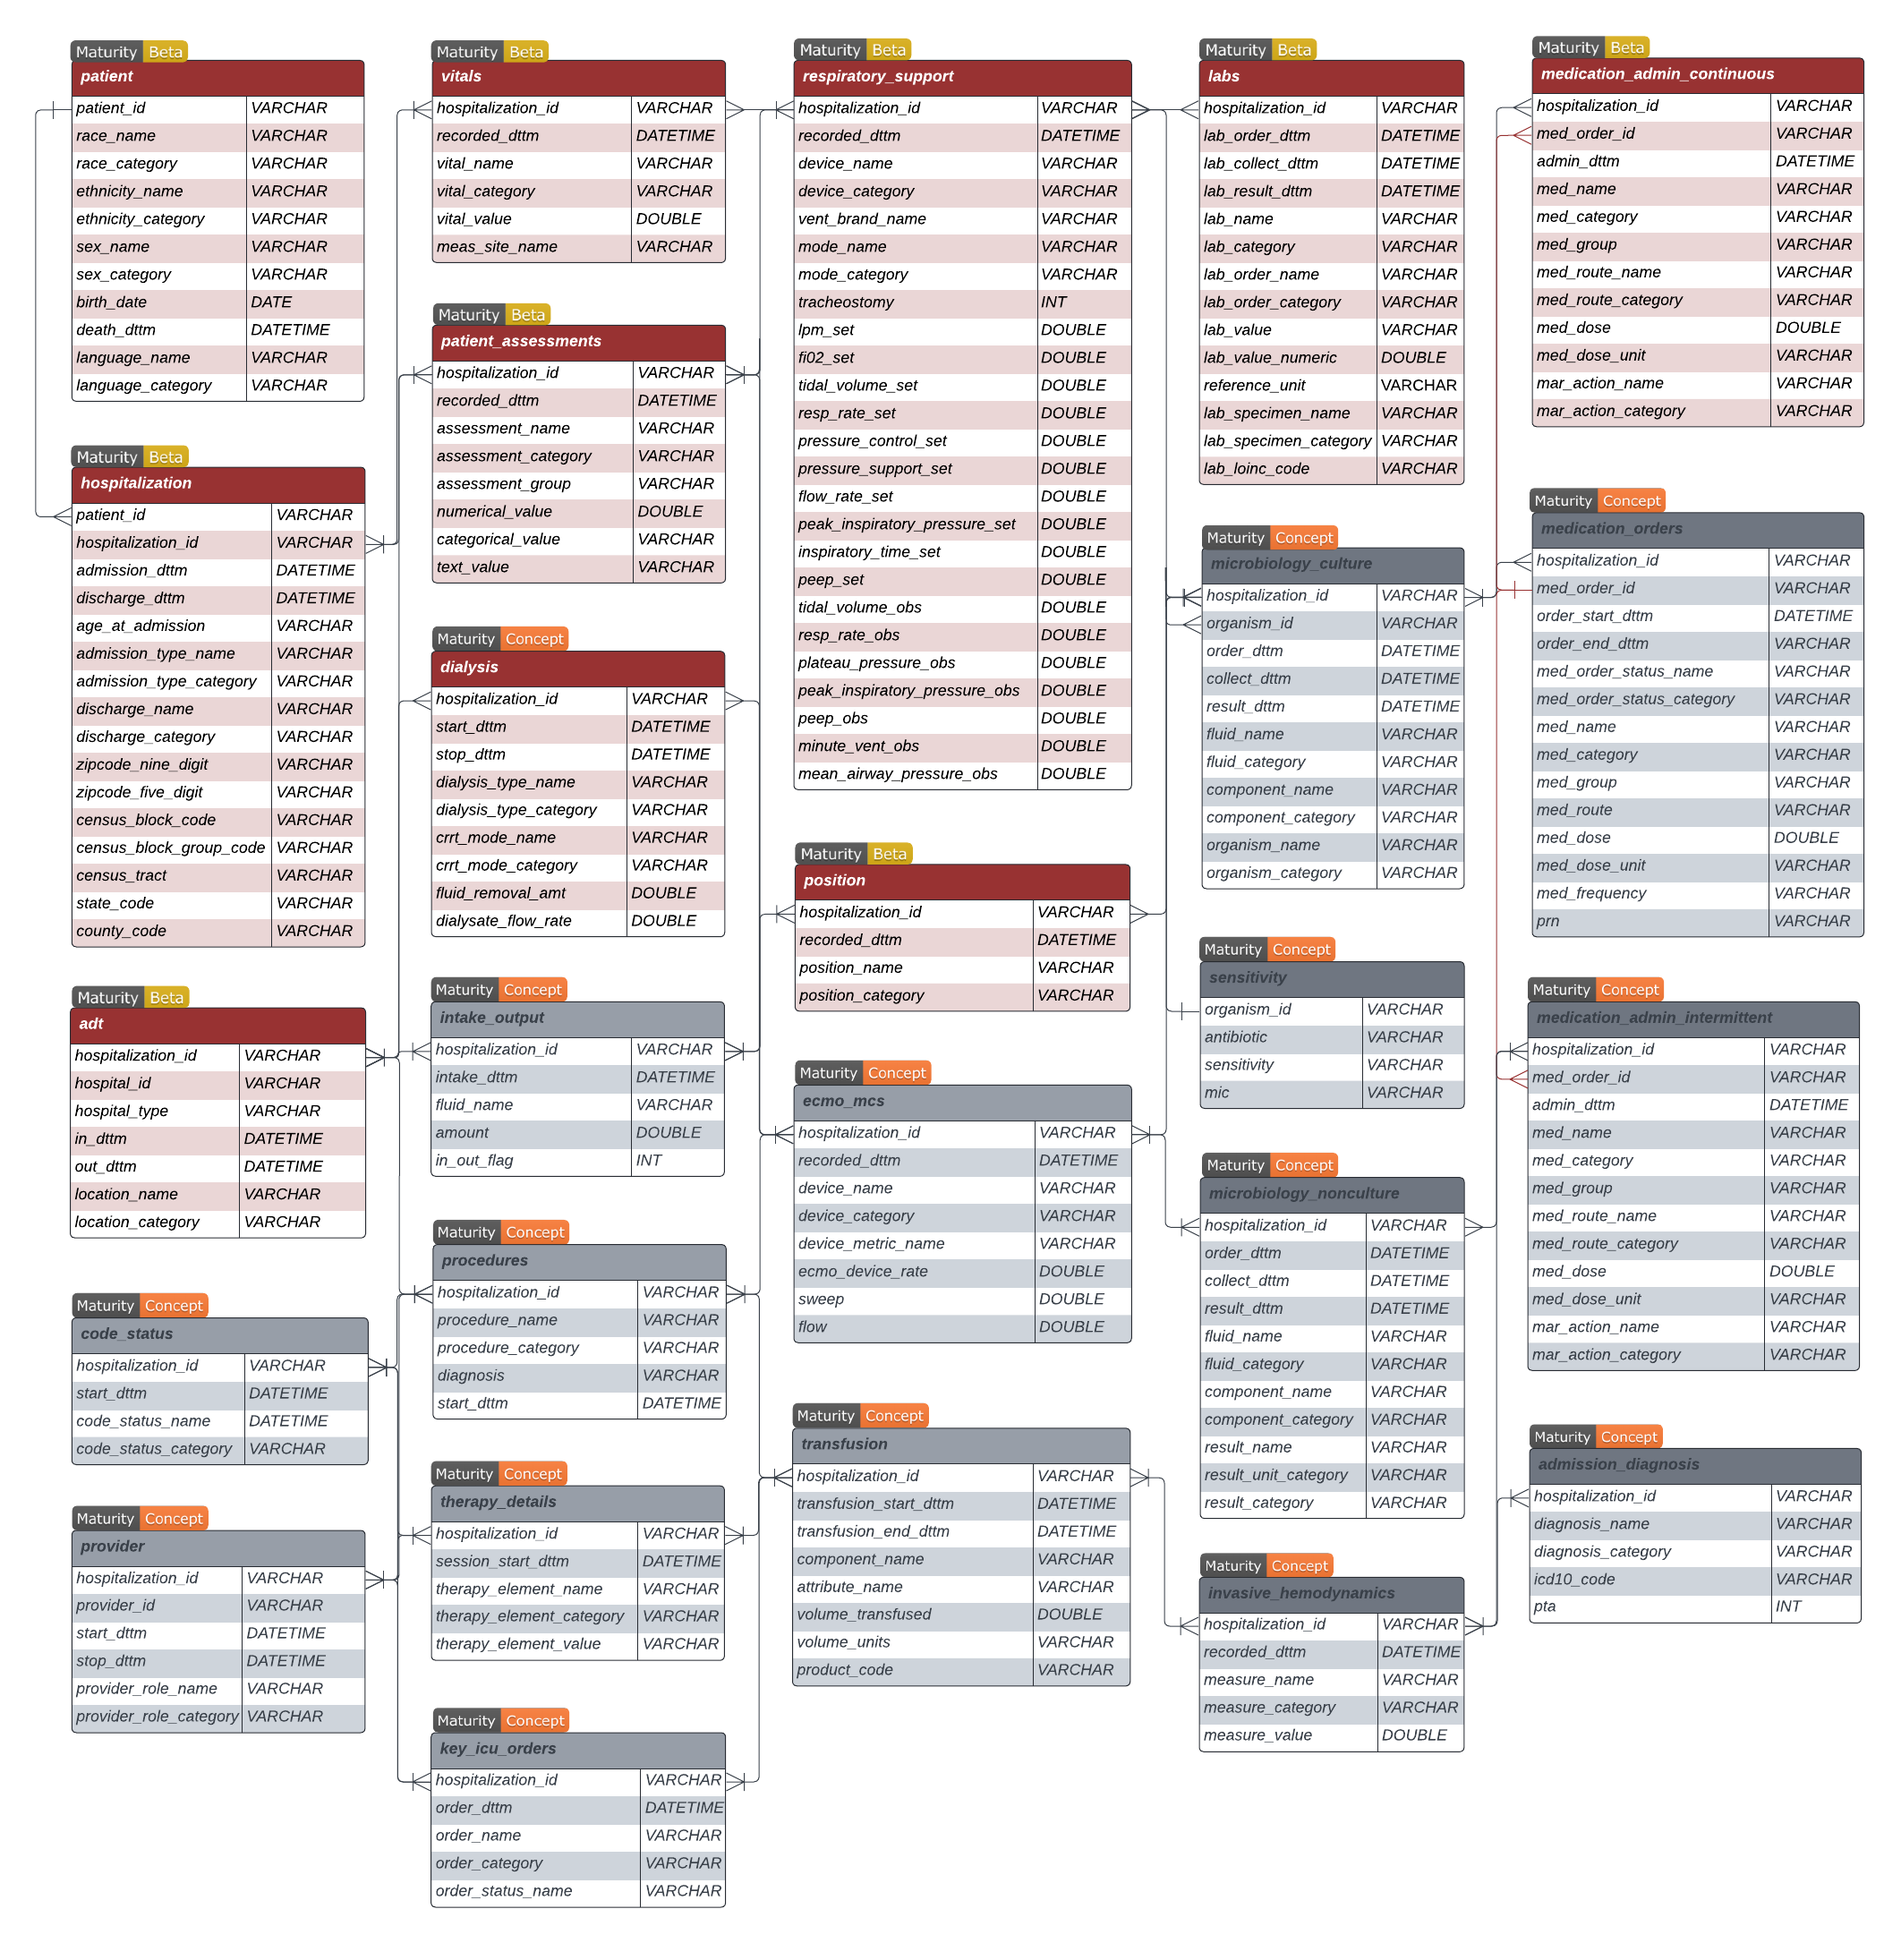
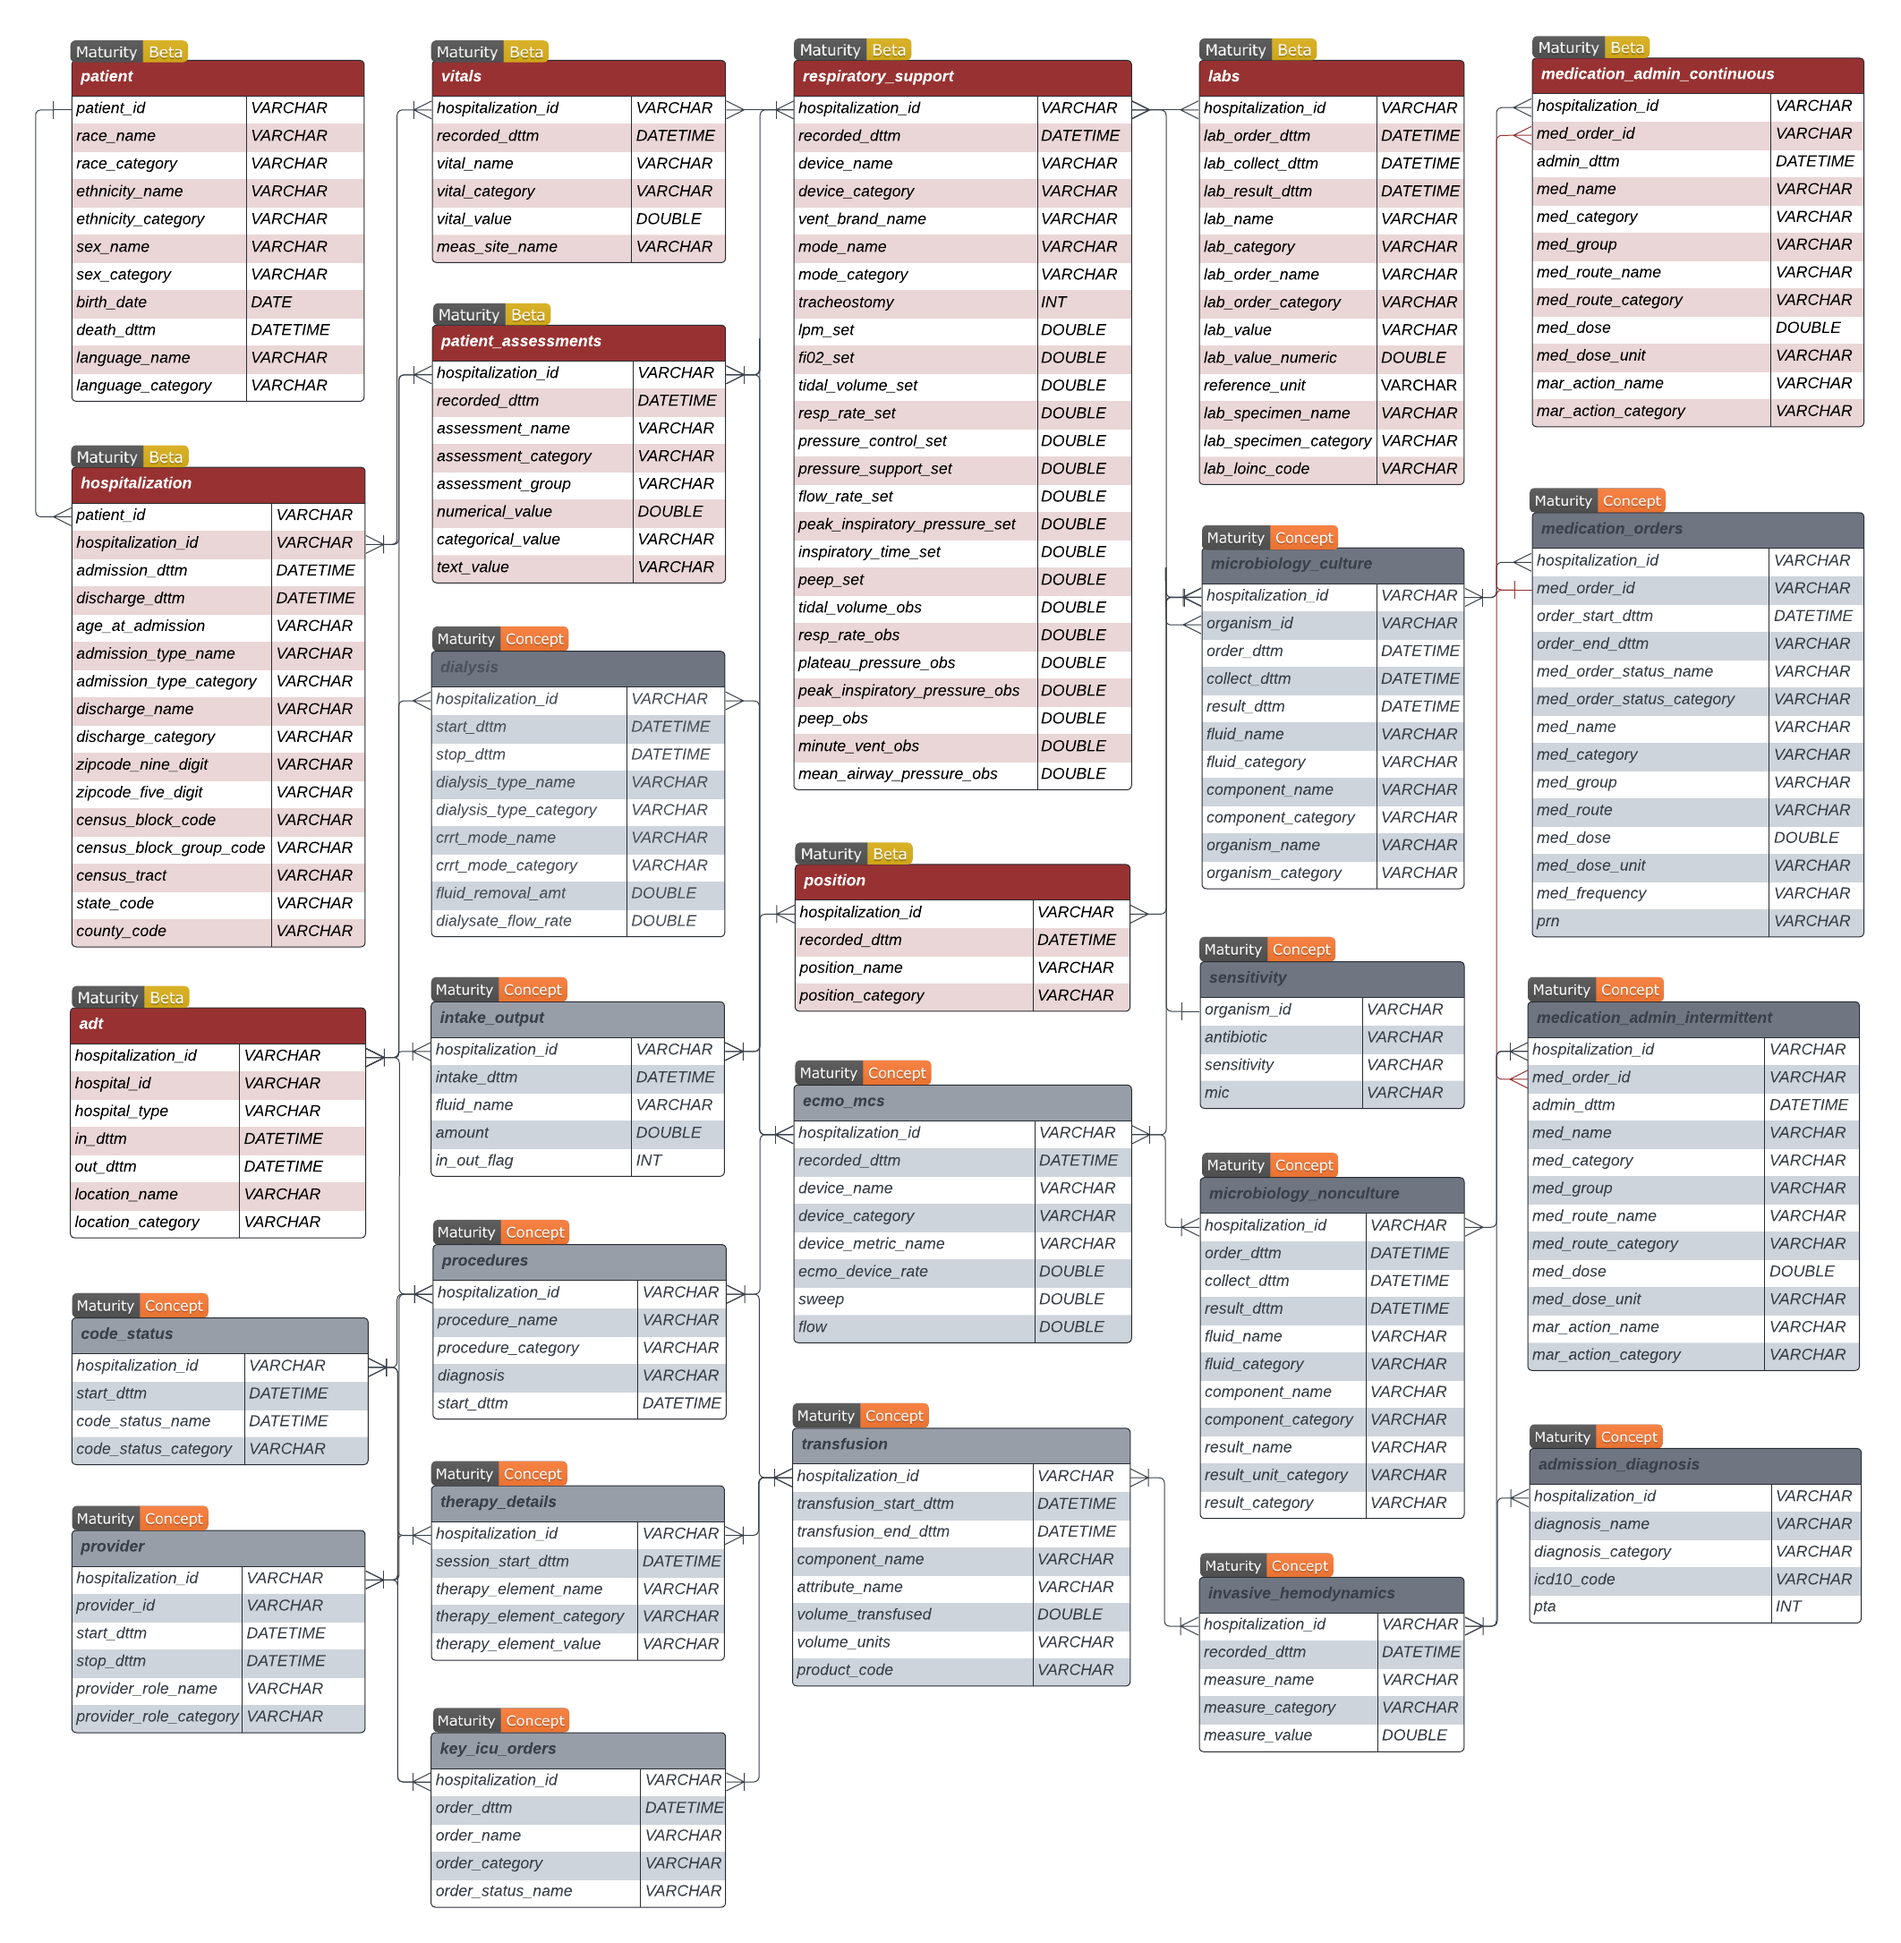
Added beta, concept table desc. Updated Casey's credentials. Removed Muna. Greyed out dialysis in ERD.

Changed region(s): [[0.2175, 0.3086, 0.404, 0.4938]]

diff --git a/docs/about.html b/docs/about.html
@@ -166,30 +166,6 @@ ul.task-list li input[type="checkbox"] {
 <section id="clif-steering-committee" class="level2">
 <h2 class="anchored" data-anchor-id="clif-steering-committee">CLIF Steering Committee</h2>
 <div class="leadership-card">
-  <img src="headshots/will_parker.jpeg" alt="William Parker" class="team-img">
-  <div class="leadership-info">
-    <h4 class="anchored"><strong>William Parker, MD, PhD</strong></h4>
-    <h4 class="anchored"><strong>Founding Executive Director</strong></h4>
-  </div>
-</div>
-
-<div class="leadership-card">
-  <img src="headshots/pat_lyons.jpeg" alt="Pat Lyons" class="team-img">
-  <div class="leadership-info">
-    <h4 class="anchored"><strong>Pat Lyons, MD</strong></h4>
-    <h4 class="anchored"><strong>Founding Vice-Chair</strong></h4>
-  </div>
-</div>
-
-<div class="leadership-card">
-  <img src="headshots/jc_rojas.jpeg" alt="J.C. Rojas" class="team-img">
-  <div class="leadership-info">
-    <h4 class="anchored"><strong>J.C. Rojas, MD</strong></h4>
-    <h4 class="anchored"><strong>Founding Vice-Chair</strong></h4>
-  </div>
-</div>
-
-<div class="leadership-card">
   <img src="headshots/nick_ingrahm.jpg" alt="Nicholas Ingraham" class="team-img">
   <div class="leadership-info">
     <h4 class="anchored"><strong>Nicholas Ingraham, MD</strong></h4>
@@ -229,6 +205,29 @@ ul.task-list li input[type="checkbox"] {
   </div>
 </div>
 
+<div class="leadership-card">
+  <img src="headshots/pat_lyons.jpeg" alt="Pat Lyons" class="team-img">
+  <div class="leadership-info">
+    <h4 class="anchored"><strong>Pat Lyons, MD</strong></h4>
+    <h4 class="anchored"><strong>Founding Vice-Chair</strong></h4>
+  </div>
+</div>
+
+<div class="leadership-card">
+  <img src="headshots/jc_rojas.jpeg" alt="J.C. Rojas" class="team-img">
+  <div class="leadership-info">
+    <h4 class="anchored"><strong>J.C. Rojas, MD</strong></h4>
+    <h4 class="anchored"><strong>Founding Vice-Chair</strong></h4>
+  </div>
+</div>
+
+<div class="leadership-card">
+  <img src="headshots/will_parker.jpeg" alt="William Parker" class="team-img">
+  <div class="leadership-info">
+    <h4 class="anchored"><strong>William Parker, MD, PhD</strong></h4>
+    <h4 class="anchored"><strong>Founding Executive Director</strong></h4>
+  </div>
+</div>
 </section>
 <section id="university-of-chicago" class="level2">
 <h2 class="anchored" data-anchor-id="university-of-chicago">University of Chicago</h2>
@@ -393,7 +392,7 @@ ul.task-list li input[type="checkbox"] {
 <div>
 <img src="headshots/casey_eddington.jpeg" alt="Nathan Mesfin" class="team-img">
 <p>
-<strong>Casey Eddington, MD</strong><br> <a href="https://www.linkedin.com/in/casey-eddington/" target="_blank"> <img src="images/linkedin_icon.png" alt="LinkedIn" class="icon"> </a>
+<strong>Casey Eddington, PhD</strong><br> <a href="https://www.linkedin.com/in/casey-eddington/" target="_blank"> <img src="images/linkedin_icon.png" alt="LinkedIn" class="icon"> </a>
 </p>
 </div>
 </div>
@@ -405,12 +404,6 @@ ul.task-list li input[type="checkbox"] {
 <img src="headshots/siva_bhavani.jpeg" alt="Siva Bhavani" class="team-img">
 <p>
 <strong>Siva Bhavani, MD</strong><br> <a href="https://scholar.google.com/citations?user=xSuWGTIAAAAJ&amp;hl=en" target="_blank"> <img src="images/scholar_icon.png" alt="Google Scholar" class="icon"> </a>
-</p>
-</div>
-<div>
-<img src="headshots/muna_nour.jpeg" alt="Muna Nour" class="team-img">
-<p>
-<strong>Muna Nour, MPH</strong><br> <a href="https://www.linkedin.com/in/muna-nour-a51661202/" target="_blank"> <img src="images/linkedin_icon.png" alt="LinkedIn" class="icon"> </a>
 </p>
 </div>
 </div>

diff --git a/docs/data-dictionary.html b/docs/data-dictionary.html
@@ -253,7 +253,7 @@ ul.task-list li input[type="checkbox"] {
 </section>
 <section id="beta-tables" class="level1">
 <h1>Beta tables</h1>
-<p>The data in these tables are typically of most electronic data warehouse systems and are not specific to critical illness. The CLIF versions of these general tables are designed to ensure that they clearly represent the minimum set of data required for critical illness research. Whenever possible, CLIF seeks compatibility with existing EHR data standards.</p>
+<p>The table purpose, structure, and field names for beta tables is complete and used in at least one federated CLIF project. The minimum Common ICU Data Elements (mCIDE) for category variables is defined. Actively testing the table’s practical use in projects. Breaking changes unlikely, but backward compatible updates in future minor versions possible</p>
 <section id="adt" class="level2">
 <h2 class="anchored" data-anchor-id="adt">ADT</h2>
 <p>The admission, discharge, and transfer (ADT) table is a start-stop longitudinal dataset that contains information about each patient’s movement within the hospital. It also has a <code>hospital_id</code> field to distinguish between different hospitals within a health system.</p>
@@ -2128,6 +2128,7 @@ ul.task-list li input[type="checkbox"] {
 </section>
 <section id="concept-tables" class="level1">
 <h1>Concept tables</h1>
+<p>A planned future CLIF table that has yet to be used in a federated project. The table structure and CDE elements are in draft form. Permissible values of category variables may still need to be defined. Seeking conceptual feedback. Significant changes to all aspects of the table are possible.</p>
 <section id="dialysis" class="level2">
 <h2 class="anchored" data-anchor-id="dialysis">Dialysis</h2>
 <p><a href="#maturity-levels-for-clif-tables"><img src="https://img.shields.io/badge/Maturity-Concept-orange.png" class="img-fluid"></a></p>
